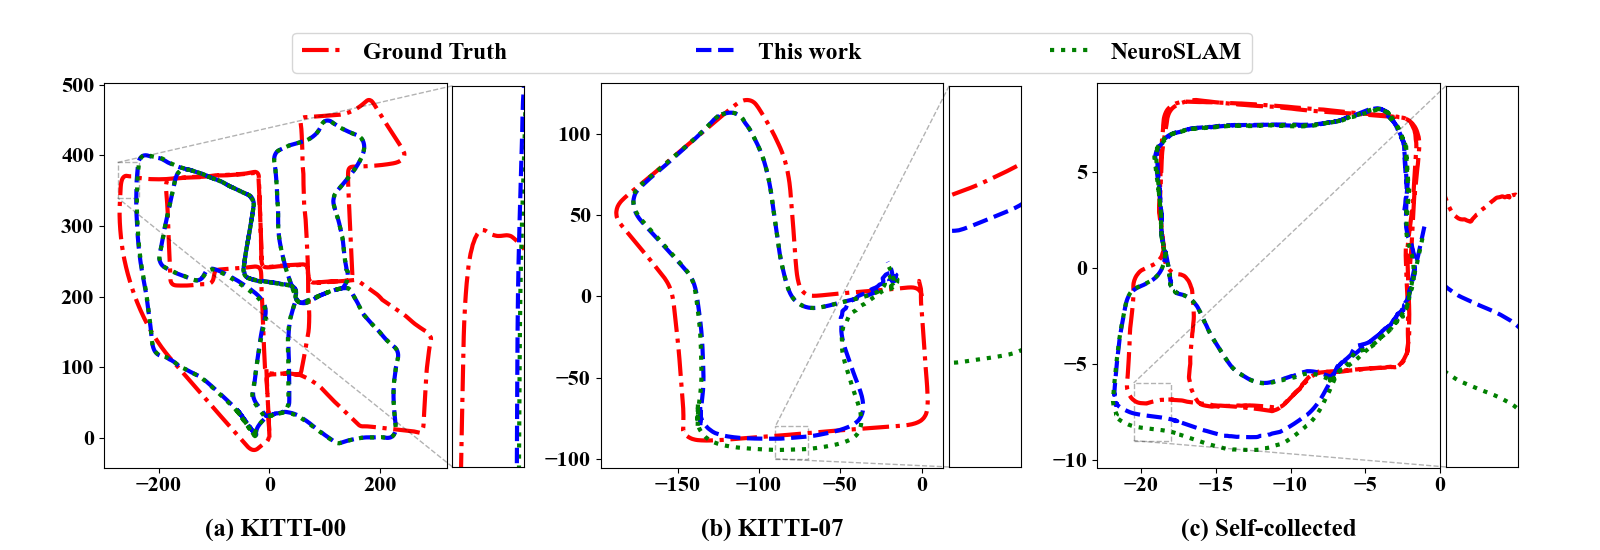
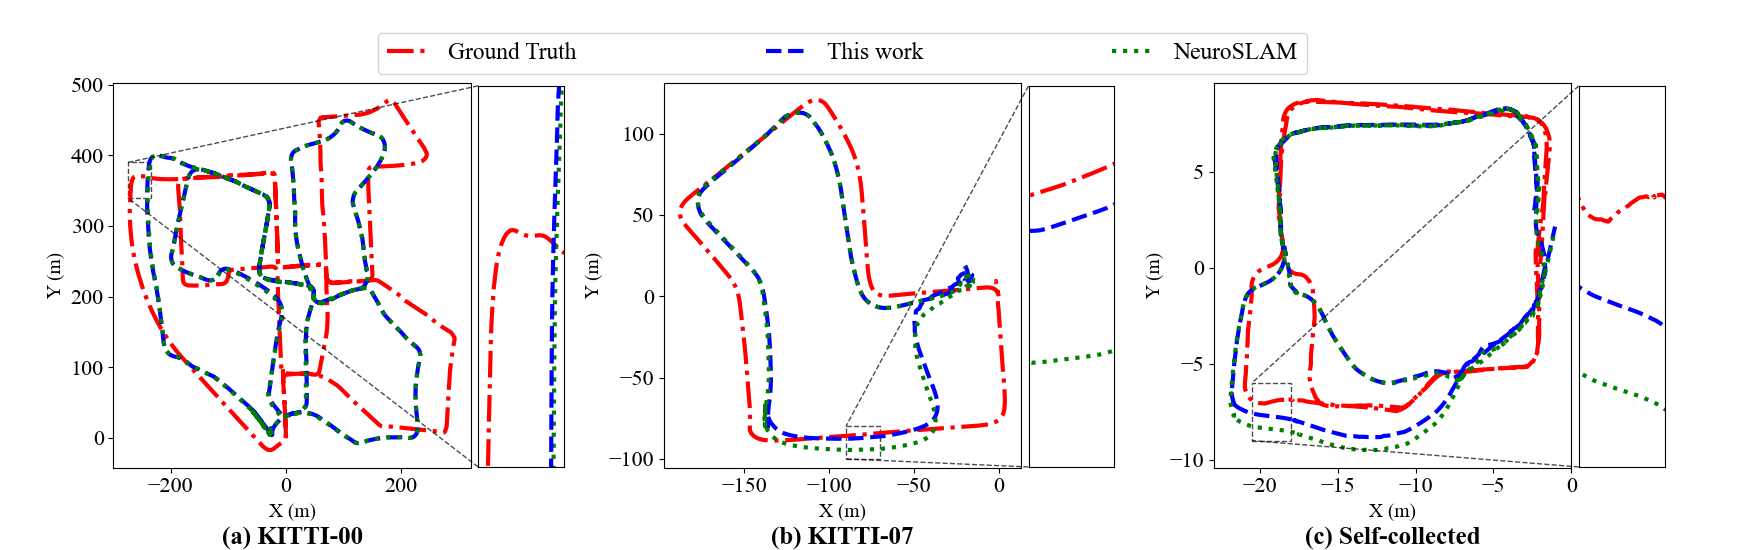
Update README

diff --git a/README.md b/README.md
@@ -1,7 +1,7 @@
 # Learning Attractor Dynamics via Reservoir Computing for Efficient and Robust Path Integration
 The code for "Learning Attractor Dynamics via Reservoir Computing for Efficient and Robust Path Integration".
 
-![](images/pipeline.png)
+<img src="images/pipeline.png" width="700">
 
 ## Introduction
 This repository contains the code for the paper "Learning Attractor Dynamics via Reservoir Computing for Efficient and Robust Path Integration". The code is organized into several modules, including data, model training, and inference. The main components of the code are as follows:
@@ -31,18 +31,13 @@ trajectories are aligned with the ground truth using rigid transformations and u
 
 ![](images/trajectory.png)
 
+_Comparison of the ATE_
+
+<img src="images/Table1.png" width="700">
+
 _Comparison of Average Processing Time per Frame on PC and Edge Platforms_
 
-| **Dataset**        | **Frames** | **Resolution**  | **NeuroSLAM (s/frame)** | **This Work (s/frame)** | **Improvement (\%)** |
-|--------------------|------------|-----------------|-------------------------|-------------------------|----------------------|
-| **PC Platform**    |            |                 |                         |                         |                      |
-| KITTI-00           | 4541       | 1241×376        | 0.119                   | **0.048**               | **59.7**             |
-| KITTI-07           | 1101       | 1226×370        | 0.114                   | **0.047**               | **58.8**             |
-| Self-collected     | 2613       | 320×180         | 0.123                   | **0.084**               | **31.7**             |
-| **Edge Platform**  |            |                 |                         |                         |                      |
-| KITTI-00           | 4541       | 1241×376        | 0.774                   | **0.304**               | **60.7**             |
-| KITTI-07           | 1101       | 1226×370        | 0.768                   | **0.307**               | **60.0**             |
-| Self-collected     | 2613       | 320×180         | 0.757                   | **0.527**               | **30.4**             |
+<img src="images/Table2.png" width="700">
 
 
 
